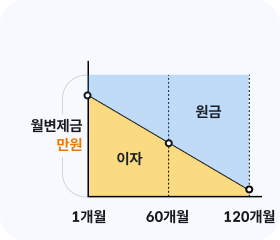
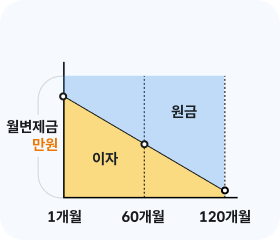
수정

diff --git a/html/개인파산1_결과.html b/html/개인파산1_결과.html
@@ -137,7 +137,7 @@
                                         <div class="roundcheck">
                                             <ul class="krds-info-list decimal">
                                                 <li>보유하신 채무가 과중한 상태<sup class="fcOrange">*</sup>로, <strong>법원</strong>의 <strong>개인파산</strong> 상담을 받아보시기 바랍니다.
-                                                    <p class="fs_17"><span class="fcOrange">*</span>신용회복위원회 채무조정은 무담보채무(신용채무) 5억 원 이하, 담보채무 10억 원 이하인 경우 신청이 가능합니다.</p>
+                                                    <p class="fs_17"><span class="fcOrange">*</span> 신용회복위원회 채무조정은 무담보채무(신용채무) 5억 원 이하, 담보채무 10억 원 이하인 경우 신청이 가능합니다.</p>
                                                 </li>
                                                 <li>개인파산은 보유 재산으로 모든 채무를 갚기 어려운 경우, <strong>재산</strong>을 <strong>처분</strong>하여 <strong>빚</strong>을 <strong>갚고</strong>(청산절차를 거치고), <strong>남은 빚</strong>은 법원의 <strong>면책</strong> 결정을 받는 제도입니다.
                                                     <ul class="krds-info-list dash">
@@ -156,7 +156,7 @@
                                         </div>
                                         <div class="top_line">
                                             <p class="orange-info"><b class="fcOrange">본 결과는 참고용이며, 실제 상담 결과와 다를 수 있습니다.</b></p>
-                                            <p class="orange-info"><b class="fcOrange">정확한 결과를 안내받고 싶으신 경우, <a href="#"><span class="txtline">신용회복위원회 상담을 신청해주시기 바랍니다.</span></b><img src="/type/www/img/icons/ico_go_orange_20.svg?ver=4.7" alt=""></a></p>
+                                            <p class="orange-info"><b class="fcOrange">정확한 결과를 안내받고 싶으신 경우, <a href="#"><span class="txtline">신용회복위원회 상담을 신청해주시기 바랍니다. </span></b><img src="/type/www/img/icons/ico_go_orange_20.svg?ver=4.7" alt=""></a></p>
                                         </div>
                                     </div>
                                 </div>
@@ -180,9 +180,8 @@
                                                 개인사업자 또는 법인소상공인인 경우<br>새출발기금 제도를 이용하실 수 있습니다.
                                             </strong>
                                         </p>
-                                        <p>
-                                            새출발기금 부실차주 채무조정제도는 90일 이상 연체된 개인사업자·법인 소상공인의 채무를 이자 없이 원금만 나눠 갚으실 수 있도록 상환기간을
-                                            길게 연장해드리는 제도입니다.
+                                        <p class="fs_15">
+                                            채무상환에 어려움을 겪고 있는 개인사업자(휴·폐업자 포함) 또는 법인소상공인이라면 연체이자 감면·이자율 조정·상환기간 연장 등의 지원을 받을 수 있습니다.
                                         </p>
                                     </div>
                                     <div class="g-info-box gray">
@@ -191,7 +190,7 @@
                                                 개인회생은
                                             </strong>
                                         </p>
-                                        <p>
+                                        <p class="fs_15">
                                             꾸준한 소득이 있는 분이 재산보다 갚아야 할 빚이 많은 경우, 3~5년간 일정한 금액을 갚고, 남은 빚은 법원의 면책 결정을 받는 제도입니다.
                                         </p>
                                     </div>

diff --git a/html/개인파산3_결과.html b/html/개인파산3_결과.html
@@ -138,7 +138,7 @@
                                             <ul class="krds-info-list decimal">
                                                 <li>소득 대비 채무가 과다한 상태로, <strong>법원</strong>의 <strong>개인파산</strong> 상담을 받아보시기 바랍니다.
                                                 </li>
-                                                <li>개인파산은 보유 재산으로 모든 채무를 갚기 어려운 경우, <strong>재산</strong>을 <strong>처분</strong>하여 <strong>빚</strong>을 <strong>갚고</strong>(청산절차를 거치고), <strong>남은 빚</strong>은 법원의 <strong>면책</strong> 결정을 받는 제도입니다.
+                                                <li>개인파산은 보유 재산으로 모든 채무를 갚기 어려운 경우, <strong>재산</strong>을 <strong>처분</strong>하여 <strong>빚</strong>을 <strong>갚고</strong>(청산절차를 거치고), <br><strong>남은 빚</strong>은 법원의 <strong>면책</strong> 결정을 받는 제도입니다.
                                                     <ul class="krds-info-list dash">
                                                         <li>단, 과거 개인회생·파산 면책을 받은 이력이 있는 경우 개인회생 면책일로부터 5년, 개인파산 면책일로부터 7년이 경과해야 신청 가능합니다.</li>
                                                     </ul>
@@ -155,7 +155,7 @@
                                         </div>
                                         <div class="top_line">
                                             <p class="orange-info"><b class="fcOrange">본 결과는 참고용이며, 실제 상담 결과와 다를 수 있습니다.</b></p>
-                                            <p class="orange-info"><b class="fcOrange">정확한 결과를 안내받고 싶으신 경우, <a href="#"><span class="txtline">신용회복위원회 상담을 신청해주시기 바랍니다.</span></b><img src="/type/www/img/icons/ico_go_orange_20.svg?ver=4.7" alt=""></a></p>
+                                            <p class="orange-info"><b class="fcOrange">정확한 결과를 안내받고 싶으신 경우, <a href="#"><span class="txtline">신용회복위원회 상담을 신청해주시기 바랍니다. </span></b><img src="/type/www/img/icons/ico_go_orange_20.svg?ver=4.7" alt=""></a></p>
                                         </div>
                                     </div>
                                 </div>
@@ -247,8 +247,7 @@
                                             </strong>
                                         </p>
                                         <p>
-                                            새출발기금 부실차주 채무조정제도는 90일 이상 연체된 개인사업자·법인 소상공인의 채무를 이자 없이 원금만 나눠 갚으실 수 있도록 상환기간을
-                                            길게 연장해드리는 제도입니다.
+                                            채무상환에 어려움을 겪고 있는 <br>개인사업자(휴·폐업자 포함) 또는 법인소상공인이라면 연체이자 감면·이자율 조정·상환기간 연장 등의 지원을 받을 수 있습니다.
                                         </p>
                                     </div>
                                     <div class="g-info-box gray">

diff --git a/html/지원불가2_결과.html b/html/지원불가2_결과.html
@@ -137,7 +137,7 @@
                                         <div class="roundcheck">
                                             <ul class="krds-info-list decimal">
                                                 <li>보유하신 채무가 과중한 상태<sup class="fcOrange">*</sup>로, <strong>법원</strong>의 <strong>개인회생</strong> 상담을 받아보시기 바랍니다.
-                                                    <p class="fs_17"><span class="fcOrange">*</span>신용회복위원회 채무조정은 무담보채무(신용채무) 5억 원 이하, 담보채무 10억 원 이하인 경우 신청이 가능합니다.</p>
+                                                    <p class="fs_17"><span class="fcOrange">*</span> 신용회복위원회 채무조정은 무담보채무(신용채무) 5억 원 이하, 담보채무 10억 원 이하인 경우 신청이 가능합니다.</p>
                                                 </li>
                                                 <li>개인회생은 <strong>꾸준한 소득</strong>이 있는 분이 재산보다 갚아야 할 빚이 많은 경우, <strong>3~5년간 일정한 금액</strong>을 <strong>갚고</strong>, <strong>남은 빚</strong>은 법원의 <strong>면책</strong> 결정을 받는 제도입니다.</li>
                                                 <li>단, 개인회생은 ‘청산가치 보장’ 등 일정 기준을 충족해야 이용 가능합니다. ‘청산가치 보장’이란 보유 재산을 처분해 갚을 수 있는 금액보다 개인회생을 통해 갚게 되는 금액이 더 많아야 함을 의미합니다.
@@ -157,7 +157,7 @@
                                         </div>
                                         <div class="top_line">
                                             <p class="orange-info"><b class="fcOrange">본 결과는 참고용이며, 실제 상담 결과와 다를 수 있습니다.</b></p>
-                                            <p class="orange-info"><b class="fcOrange">정확한 결과를 안내받고 싶으신 경우, <a href="#"><span class="txtline">신용회복위원회 상담을 신청해주시기 바랍니다.</span></b><img src="/type/www/img/icons/ico_go_orange_20.svg?ver=4.7" alt=""></a></p>
+                                            <p class="orange-info"><b class="fcOrange">정확한 결과를 안내받고 싶으신 경우, <a href="#"><span class="txtline">신용회복위원회 상담을 신청해주시기 바랍니다. </span></b><img src="/type/www/img/icons/ico_go_orange_20.svg?ver=4.7" alt=""></a></p>
                                         </div>
                                     </div>
                                 </div>

diff --git a/html/지원불가3_결과.html b/html/지원불가3_결과.html
@@ -137,7 +137,7 @@
                                         <div class="roundcheck">
                                             <ul class="krds-info-list decimal">
                                                 <li>보유하신 채무가 과중한 상태<sup class="fcOrange">*</sup>로, <strong>법원</strong>의 <strong>개인회생</strong> 상담을 받아보시기 바랍니다.
-                                                    <p class="fs_17"><span class="fcOrange">*</span>신용회복위원회 채무조정은 무담보채무(신용채무) 5억 원 이하, 담보채무 10억 원 이하인 경우 신청이 가능합니다.</p>
+                                                    <p class="fs_17"><span class="fcOrange">*</span> 신용회복위원회 채무조정은 무담보채무(신용채무) 5억 원 이하, 담보채무 10억 원 이하인 경우 신청이 가능합니다.</p>
                                                 </li>
                                                 <li>개인회생은 <strong>꾸준한 소득</strong>이 있는 분이 재산보다 갚아야 할 빚이 많은 경우, <strong>3~5년간 일정한 금액</strong>을 <strong>갚고</strong>, <strong>남은 빚</strong>은 법원의 <strong>면책</strong> 결정을 받는 제도입니다.</li>
                                                 <li>단, 개인회생은 일정한 소득이 꾸준히 발생함을 증빙할 수 있어야 합니다.
@@ -157,7 +157,7 @@
                                         </div>
                                         <div class="top_line">
                                             <p class="orange-info"><b class="fcOrange">본 결과는 참고용이며, 실제 상담 결과와 다를 수 있습니다.</b></p>
-                                            <p class="orange-info"><b class="fcOrange">정확한 결과를 안내받고 싶으신 경우, <a href="#"><span class="txtline">신용회복위원회 상담을 신청해주시기 바랍니다.</span></b><img src="/type/www/img/icons/ico_go_orange_20.svg?ver=4.7" alt=""></a></p>
+                                            <p class="orange-info"><b class="fcOrange">정확한 결과를 안내받고 싶으신 경우, <a href="#"><span class="txtline">신용회복위원회 상담을 신청해주시기 바랍니다. </span></b><img src="/type/www/img/icons/ico_go_orange_20.svg?ver=4.7" alt=""></a></p>
                                         </div>
                                     </div>
                                 </div>

diff --git a/html/개인파산2_결과.html b/html/개인파산2_결과.html
@@ -137,7 +137,7 @@
                                         <div class="roundcheck">
                                             <ul class="krds-info-list decimal">
                                                 <li>보유하신 채무가 과중한 상태<sup class="fcOrange">*</sup>로, <strong>법원</strong>의 <strong>개인파산</strong> 상담을 받아보시기 바랍니다.
-                                                    <p class="fs_17"><span class="fcOrange">*</span>신용회복위원회 채무조정은 무담보채무(신용채무) 5억 원 이하, 담보채무 10억 원 이하인 경우 신청이 가능합니다.</p>
+                                                    <p class="fs_17"><span class="fcOrange">*</span> 신용회복위원회 채무조정은 무담보채무(신용채무) 5억 원 이하, 담보채무 10억 원 이하인 경우 신청이 가능합니다.</p>
                                                 </li>
                                                 <li>개인파산은 보유 재산으로 모든 채무를 갚기 어려운 경우, <strong>재산</strong>을 <strong>처분</strong>하여 <strong>빚</strong>을 <strong>갚고</strong>(청산절차를 거치고), <strong>남은 빚</strong>은 법원의 <strong>면책</strong> 결정을 받는 제도입니다.
                                                     <ul class="krds-info-list dash">
@@ -156,7 +156,7 @@
                                         </div>
                                         <div class="top_line">
                                             <p class="orange-info"><b class="fcOrange">본 결과는 참고용이며, 실제 상담 결과와 다를 수 있습니다.</b></p>
-                                            <p class="orange-info"><b class="fcOrange">정확한 결과를 안내받고 싶으신 경우, <a href="#"><span class="txtline">신용회복위원회 상담을 신청해주시기 바랍니다.</span></b><img src="/type/www/img/icons/ico_go_orange_20.svg?ver=4.7" alt=""></a></p>
+                                            <p class="orange-info"><b class="fcOrange">정확한 결과를 안내받고 싶으신 경우, <a href="#"><span class="txtline">신용회복위원회 상담을 신청해주시기 바랍니다. </span></b><img src="/type/www/img/icons/ico_go_orange_20.svg?ver=4.7" alt=""></a></p>
                                         </div>
                                     </div>
                                 </div>

diff --git a/html/신속채무조정2_결과.html b/html/신속채무조정2_결과.html
@@ -183,7 +183,7 @@
                                     <div class="roundcheck mt30">
                                         <ul class="krds-info-list dash">
                                             <li>월변제금, 상환기간 등 구체적인 <strong>상환조건</strong>은 <strong>소득, 부양가족</strong> 등에 따라 결정됩니다. </li>
-                                            <li>정확한 결과를 안내받고 싶으신 경우, <a href="#"><span class="blackline"><strong>신용회복위원회 상담</strong>을 신청해 주시기 바랍니다.</span> <img src="/type/www/img/icons/ico_go_20.svg" alt=""></a></li>
+                                            <li>정확한 결과를 안내받고 싶으신 경우, <a href="#book"><span class="blackline"><strong>신용회복위원회 상담</strong>을 신청해 주시기 바랍니다.</span> <img src="/type/www/img/icons/ico_go_20.svg" alt=""></a></li>
                                         </ul>
                                     </div>
                                     <div class="qr-section">
@@ -195,7 +195,7 @@
                                                 </div>
                                                 <div class="qr-linker">
                                                     <p>구글 플레이</p>
-                                                    <a href="#" class="qr-a">바로가기</a>
+                                                    <a href="https://play.google.com/store/apps/details?id=kr.or.ccrs.ccpm&hl=ko" target="_blank" title="새창열림" class="qr-a">바로가기</a>
                                                 </div>
                                             </div>
                                             <div class="qr-boxlink">
@@ -204,7 +204,7 @@
                                                 </div>
                                                 <div class="qr-linker">
                                                     <p>앱 스토어</p>
-                                                    <a href="#" class="qr-a">바로가기</a>
+                                                    <a href="https://apps.apple.com/kr/app/%EC%8B%A0%EC%9A%A9%ED%94%8C%EB%9F%AC%EC%8A%A4-creditplus/id1665482651" target="_blank" title="새창열림" class="qr-a">바로가기</a>
                                                 </div>
                                             </div>
                                         </div>

diff --git a/type/www/css/styles2.css b/type/www/css/styles2.css
@@ -75,6 +75,10 @@
 }
 .top_line .orange-info {
     font-size: 2rem;
+    margin-top: 0;
+    line-height: 1.6;
+    background-position: left top 5px;
+    background-size: 20px;
 }
 .txtline {
     text-decoration: underline;
@@ -128,7 +132,7 @@
     margin-top: 10px;
     display: flex;
     flex-wrap: nowrap;
-    gap: 2rem;
+    gap: 0;
     background: #FFFAED;
     padding: 20px 30px;
     border-radius: 24px;
@@ -195,7 +199,7 @@
 .result-card-inner-wrapper .stats-sub-section {
     margin-top: 1.6rem;
     border-radius: 2.4rem;
-    padding: 1.6rem;
+    padding: 1.6rem 0;
     background: #F6FAFF;
 }
 .result-card-inner-wrapper .flex-3box {
@@ -204,8 +208,13 @@
 }
 .result-card-inner-wrapper .flex-3box .stats-sub-section {
     display: flex;
-    min-width: calc(100%/3 - 16px);
+    min-width: 288px;
     max-width: 100%;
+    justify-content: center;
+}
+.result-card-inner-wrapper .stats-sub-section .graph-wrap {
+    max-width: 280px;
+    margin: 0 auto;
 }
 .result-card-inner-wrapper .stats-sub-section .graph-wrap .graph-img {
     position: relative;
@@ -260,25 +269,26 @@
 } */
 .graph-wrap .manwon {
     position: absolute;
-    font-size: 1.6rem;
+    font-size: 1.5rem;
     top: 127px;
     right: 200px;
     height: 2.4rem;
-    padding: 2px 5px;
-    background-color: #FFFAED;
+    padding: 0;
+    background-color: transparent;
     border-radius: 20px;
     color: #ED7801;
     text-align: right;
     font-weight: 700;
+    letter-spacing: 0;
 }
 .stats-sub-section .graph-wrap .manwon {
-    background-color: #F6FAFF;
+    background-color: transparent;
     top: 133px;
     right: 193px;
 }
 .stats-sub-section .graph-wrap .freeworkout .manwon {
-    right: 199px;
-    top: 156px;
+    right: 249px;
+    top: 157px;
 }
 .stats-sub-section .graph-wrap .nofilter .manwon {
     right: 199px;
@@ -296,12 +306,6 @@
     right: 300px;
     top: 125px;
 }
-
-.graph-wrap .manwon::after {
-    content: '만원';
-    margin-left: 2px;
-}
-
 .graph-wrap .hover-box {
     position: absolute;
     width: 58%;
@@ -566,6 +570,12 @@
 }
 .info-list.g-wrap.row .g-info-box {
     flex: 0 calc(100%/3);
+}
+.info-list.g-wrap.row .g-info-box p{
+    font-size: 15px;
+}
+.info-list.g-wrap.row .g-info-box p strong {
+    font-size: 17px;
 }
 .info-item {
     display: flex;

diff --git a/html/사전채무조정_결과.html b/html/사전채무조정_결과.html
@@ -132,7 +132,7 @@
                                 <div class="result-card-inner-wrapper">
                                     <div class="result-title-section">
                                         <h3 class="result-main-title">
-                                            나에게 맞는 채무조정제도는 <span class="fcOrange">사전채무조정<span class="fs_32">(프리워크아웃)</span></span>입니다.
+                                            나에게 맞는 채무조정제도는 <br><span class="fcOrange">사전채무조정<span class="fs_32">(프리워크아웃)</span></span>입니다.
                                         </h3>
                                         <p class="result-text">
                                             사전채무조정은 상환기간을 최장 10년까지 늘리고, 약정이자율을 30~70% 인하하여 원리금을 분할 상환할 수 있도록 지원하는 제도입니다. (이자율 상한 연 8%)
@@ -176,7 +176,7 @@
                                                     <li><b>연체이자</b> 전액 <b>면제</b></li>
                                                     <li><b>원리금균등분할상환</b>으로 초기 이자부담 높음</li>
                                                 </ul>
-                                                <p class="blue-info">본 결과는 최장상환기간 및 최고이자율을 적용한 결과로, 실제 상담 결과와 다를 수 있습니다.</p>
+                                                <p class="blue-info">본 결과는 최장상환기간 및 최고이자율을 적용한 결과로, <br>실제 상담 결과와 다를 수 있습니다.</p>
                                             </div>
                                         </div>
                                     </div>

diff --git a/html/개인회생1_결과.html b/html/개인회생1_결과.html
@@ -137,7 +137,7 @@
                                         <div class="roundcheck">
                                             <ul class="krds-info-list decimal">
                                                 <li>보유하신 채무가 과중한 상태<sup class="fcOrange">*</sup>로, <strong>법원</strong>의 <strong>개인회생</strong> 상담을 받아보시기 바랍니다.
-                                                    <p class="fs_17"><span class="fcOrange">*</span>신용회복위원회 채무조정은 무담보채무(신용채무) 5억 원 이하, 담보채무 10억 원 이하인 경우 신청이 가능합니다.</p>
+                                                    <p class="fs_17"><span class="fcOrange">*</span> 신용회복위원회 채무조정은 무담보채무(신용채무) 5억 원 이하, 담보채무 10억 원 이하인 경우 신청이 가능합니다.</p>
                                                 </li>
                                                 <li>개인회생은 <strong>꾸준한 소득</strong>이 있는 분이 재산보다 갚아야 할 빚이 많은 경우, <strong>3~5년간 일정한 금액</strong>을 <strong>갚고</strong>, <strong>남은 빚</strong>은 법원의 <strong>면책</strong> 결정을 받는 제도입니다.
                                                     <ul class="krds-info-list dash">

diff --git a/type/www/css/styles.css b/type/www/css/styles.css
@@ -6734,7 +6734,7 @@ input[type=radio]:checked+label.fillter-chip {
     background: #D63D4A;
     border-color: #D63D4A;
     border-radius: 1000px;
-    /* box-shadow: 5px 5px 15px 0px #0000002E; */
+    box-shadow: 5px 5px 15px 0px #0000002E;
     padding: 0 16px;
     color: #fff;
     font-size: 1.7rem;
@@ -6742,12 +6742,13 @@ input[type=radio]:checked+label.fillter-chip {
     height: 48px;
     flex-shrink: 0;
     gap: 10px;
+    min-width: 170px;
 }
 
 .youtube-btn-red:hover,
 .youtube-btn-red:focus {
     outline: none;
-    box-shadow: 0 0 0 4px #FFB3B8;
+    box-shadow: none;
     color: #fff;
 }
 
@@ -6871,7 +6872,6 @@ input[type=radio]:checked+label.fillter-chip {
     background: #F48F01;
     font-weight: 700;
     color: #fff;
-    min-width: 78px;
     padding: 0 16px;
     border-radius: 1000px;
     box-shadow: 5px 5px 15px 0px #0000002E;
@@ -6881,11 +6881,13 @@ input[type=radio]:checked+label.fillter-chip {
     font-size: 1.7rem;
     height: 48px;
     gap: 4px;
+    min-width: 170px;
 }
 
 .orange-link:hover,
 .orange-link:focus {
     color: #fff;
+    box-shadow: none;
 }
 
 .orange-link .icon-arrow-right-white {

diff --git a/html/지원불가1_결과.html b/html/지원불가1_결과.html
@@ -143,7 +143,7 @@
                                         </div>
                                         <div class="top_line">
                                             <p class="orange-info"><b class="fcOrange">본 결과는 참고용이며, 실제 상담 결과와 다를 수 있습니다.</b></p>
-                                            <p class="orange-info"><b class="fcOrange">정확한 결과를 안내받고 싶으신 경우, <a href="#"><span class="txtline">신용회복위원회 상담을 신청해주시기 바랍니다.</span></b><img src="/type/www/img/icons/ico_go_orange_20.svg?ver=4.7" alt=""></a></p>
+                                            <p class="orange-info"><b class="fcOrange">정확한 결과를 안내받고 싶으신 경우, <a href="#"><span class="txtline">신용회복위원회 상담을 신청해주시기 바랍니다. </span></b><img src="/type/www/img/icons/ico_go_orange_20.svg?ver=4.7" alt=""></a></p>
                                         </div>
                                     </div>
                                 </div>

diff --git a/html/지원불가4_결과.html b/html/지원불가4_결과.html
@@ -155,7 +155,7 @@
                                         </div>
                                         <div class="top_line">
                                             <p class="orange-info"><b class="fcOrange">본 결과는 참고용이며, 실제 상담 결과와 다를 수 있습니다.</b></p>
-                                            <p class="orange-info"><b class="fcOrange">정확한 결과를 안내받고 싶으신 경우, <a href="#"><span class="txtline">신용회복위원회 상담을 신청해주시기 바랍니다.</span></b><img src="/type/www/img/icons/ico_go_orange_20.svg?ver=4.7" alt=""></a></p>
+                                            <p class="orange-info"><b class="fcOrange">정확한 결과를 안내받고 싶으신 경우, <a href="#"><span class="txtline">신용회복위원회 상담을 신청해주시기 바랍니다. </span></b><img src="/type/www/img/icons/ico_go_orange_20.svg?ver=4.7" alt=""></a></p>
                                         </div>
                                     </div>
                                 </div>
